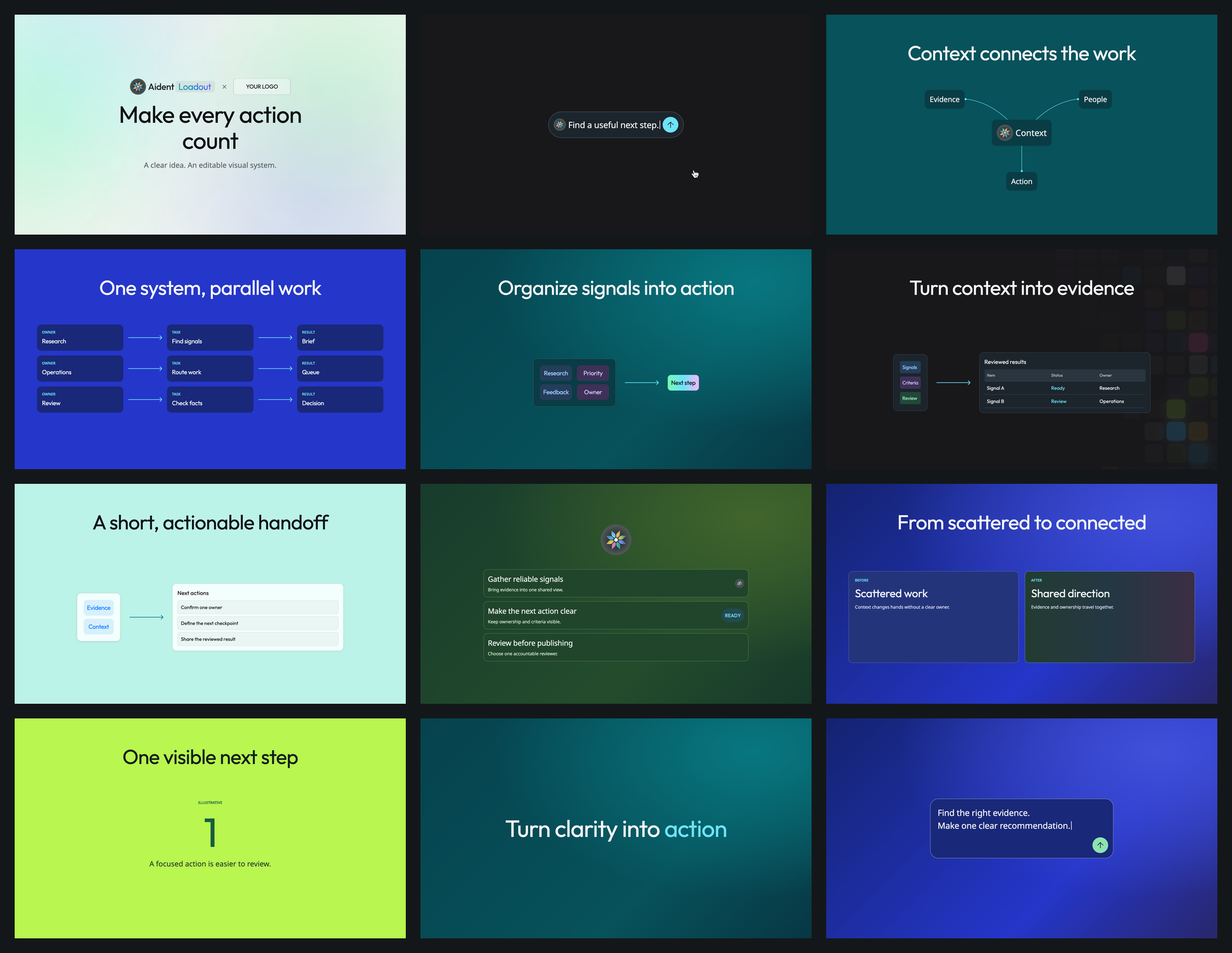
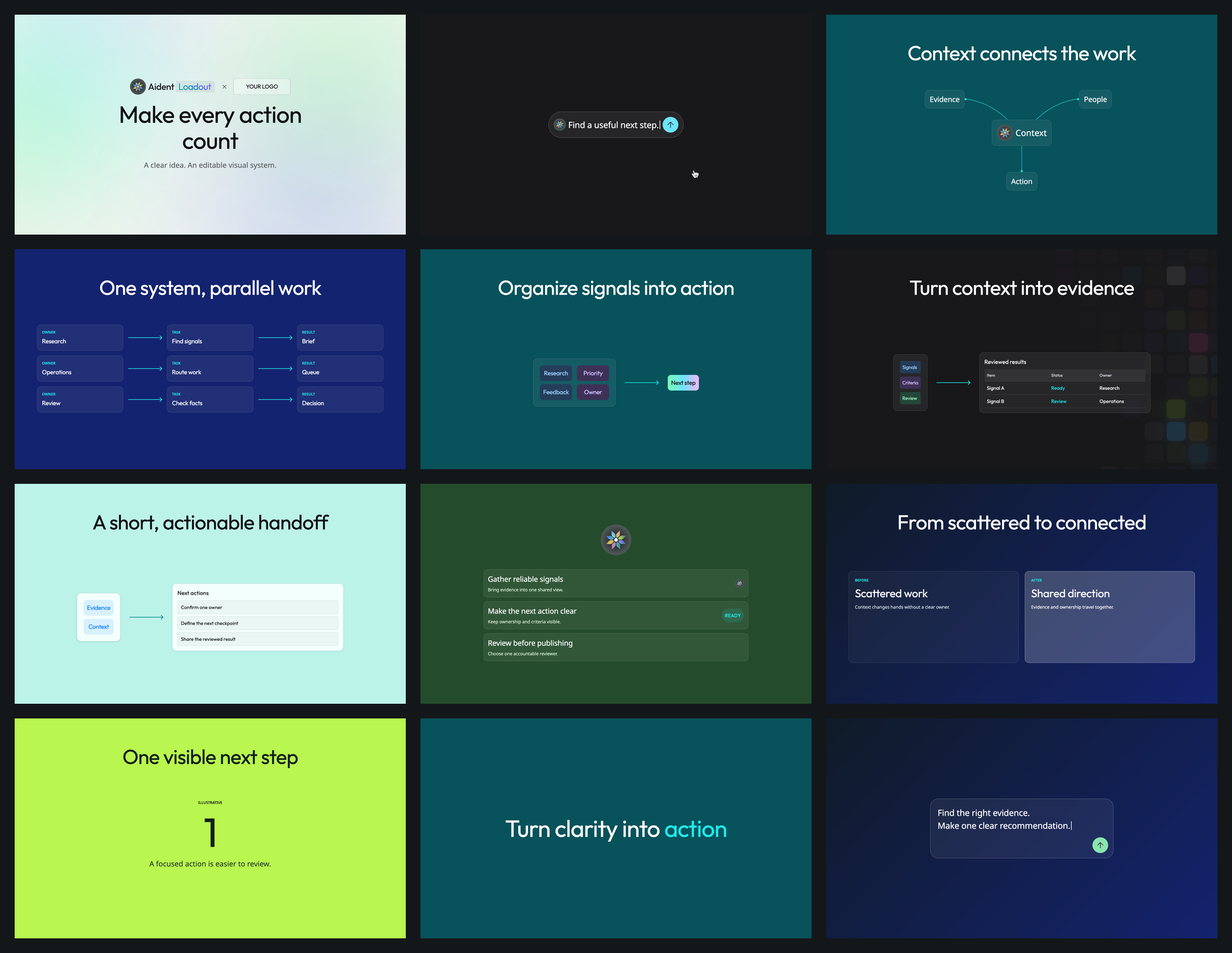
Refine Motion styles and palette/layout recommendations (#1)
* Refine Motion surfaces and palette layout recommendations

* Fix palette edge cases and refresh Motion preview QA

diff --git a/assets/runtime/motion.css b/assets/runtime/motion.css
@@ -13,7 +13,7 @@ img{display:block;max-width:100%}
 p,h1{overflow-wrap:normal}
 .m-heading{position:absolute;top:132px;left:110px;width:1700px;display:flex;flex-direction:column;align-items:center;gap:12px;text-align:center}
 .m-title{font:var(--m-display-weight) var(--m-display-size)/var(--m-display-lh) var(--m-display-font),sans-serif;letter-spacing:var(--m-display-tracking);width:100%}
-.m-kicker{font:var(--m-kicker-weight) var(--m-kicker-size)/var(--m-kicker-lh) var(--m-kicker-font),sans-serif;letter-spacing:var(--m-kicker-tracking);width:max-content;max-width:100%;background:var(--m-kicker);background-clip:text;color:transparent}
+.m-kicker{font:var(--m-kicker-weight) var(--m-kicker-size)/var(--m-kicker-lh) var(--m-kicker-font),sans-serif;letter-spacing:var(--m-kicker-tracking);width:max-content;max-width:100%;background:var(--m-kicker);background-clip:text;color:var(--m-kickerColor,transparent)}
 .m-statement{font:var(--m-statement-weight) var(--m-statement-size)/var(--m-statement-lh) var(--m-statement-font),sans-serif;letter-spacing:var(--m-statement-tracking);text-wrap:balance;width:100%;white-space:pre-line}
 .motion-title .m-heading{top:50%;transform:translateY(-50%)}
 .m-highlight{color:var(--m-accent)}
@@ -25,6 +25,8 @@ p,h1{overflow-wrap:normal}
 .m-card{height:450px;min-width:0;border:1px solid var(--m-cardStroke);background:var(--m-cardFill);border-radius:20px;padding:30px;display:flex;flex-direction:column;align-items:flex-start;gap:10px}
 .m-card.tone-muted{background:var(--m-mutedFill);border-color:var(--m-mutedStroke)}
 .m-card.tone-accent{background:var(--m-accentCard);border-color:var(--m-accentStroke)}
+.motion-slide[data-theme="dark"].motion-comparison .m-card{background:var(--m-comparisonMutedFill);border-color:var(--m-comparisonMutedStroke)}
+.motion-slide[data-theme="dark"].motion-comparison .m-card.tone-accent{background:var(--m-comparisonAccentFill);border-color:var(--m-comparisonAccentStroke);--m-secondary:var(--m-primary)}
 .m-card-icon{height:60px;width:auto;max-width:120px;object-fit:contain}
 .m-brands{--brand-max-width:var(--brand-single-width);--brand-max-height:var(--brand-single-height);position:absolute;inset:0;display:flex;align-items:center;justify-content:center;gap:var(--brand-gap);padding:110px}
 .m-brands[data-brand-count="2"]{--brand-max-width:var(--brand-pair-width);--brand-max-height:var(--brand-pair-height)}
@@ -38,11 +40,11 @@ p,h1{overflow-wrap:normal}
 .m-list-logo{width:auto;height:150px;max-width:650px;object-fit:contain}
 .m-list-track{display:flex;flex-direction:column;gap:20px;padding:3px 0;height:auto;overflow:visible}
 .m-list-row{flex:none;width:100%;min-height:137px;height:auto;display:flex;align-items:center;gap:20px;padding:20px;border:1px solid var(--m-cardStroke);background:var(--m-cardFill);border-radius:20px}
-.m-list-row.is-accent{border-color:var(--m-accent)}
+.m-list-row.is-accent{border-color:var(--m-accentStroke)}
 .m-list-copy{flex:1;min-width:0;display:flex;flex-direction:column;gap:8px}
 .m-list-title{font:var(--m-list-weight) var(--m-list-size)/var(--m-list-lh) var(--m-list-font);letter-spacing:var(--m-list-tracking)}
-.m-badge{width:max-content;max-width:250px;padding:16px;border-radius:999px;background:var(--m-badgeFill);color:var(--m-accent);font:500 24px/1.5 var(--m-item-font);letter-spacing:-.01em;flex:none}
-.m-check{width:60px;height:60px;padding:10px;flex:none;border-radius:999px;background:rgba(69,227,82,.12)}
+.m-badge{width:max-content;max-width:250px;padding:16px;border-radius:999px;background:var(--m-listAccentFill,var(--m-badgeFill));color:var(--m-listAccent,var(--m-accent));font:500 24px/1.5 var(--m-item-font);letter-spacing:-.01em;flex:none}
+.m-check{width:60px;height:60px;padding:10px;flex:none;border-radius:999px;background:var(--m-listAccentFill,rgba(69,227,82,.12))}
 .m-check img{width:40px;height:40px}
 .m-list-item-image{max-width:100px;width:auto;max-height:60px;height:auto}
 .m-input-wrap{position:absolute;inset:0;display:flex;align-items:center;justify-content:center}
@@ -169,7 +171,7 @@ body.capture #motion-controls{display:none}
 .m-result-list-row{padding:14px 16px;border:1px solid var(--m-panelStroke);border-radius:12px;background:var(--m-mutedFill)}
 /* Layout shells own placement; inner surfaces are safe independent reveal targets. */
 .m-flow-node,.m-hub-center,.m-satellite{padding:0;background:none;box-shadow:none}
-.m-node-visual{display:flex;align-items:inherit;justify-content:inherit;gap:inherit;padding:24px;border-radius:20px;background:var(--m-surface);box-shadow:0 1px 10px rgba(0,0,0,.04);width:100%;height:100%}
+.m-node-visual{display:flex;align-items:inherit;justify-content:inherit;gap:inherit;padding:24px;border-radius:20px;background:var(--m-surface);box-shadow:inset 0 0 0 1px var(--m-panelStroke),0 1px 10px rgba(0,0,0,.04);width:100%;height:100%}
 .m-flow-node>.m-node-visual{flex-direction:column;align-items:flex-start}
 .m-workflow-rows{position:absolute;left:110px;top:var(--workflow-rows-top);width:1700px;display:flex;flex-direction:column;gap:var(--workflow-row-gap)}
 .m-flow-row{position:relative;left:auto;top:auto;translate:none;width:100%}

diff --git a/references/motion/themes-and-combinations.md b/references/motion/themes-and-combinations.md
@@ -8,10 +8,10 @@ Set `meta.theme: "light" | "dark"` for the deck default; `slide.theme` overrides
 
 | Role | Light | Dark |
 |---|---|---|
-| Primary text | `#111114` | `#F3F6F7` |
-| Secondary text | `#5E6263` | `#BDC7CA` |
-| Accent / connectors | `#008089` | `#6DE4F9` |
-| Panel / Input / workflow node | `#FFFFFF` | `#1C242C` |
+| Primary text | `#111114` | `#FFFFFF` |
+| Secondary text | `#5E6263` | `#D9E4ED` |
+| Accent / connectors | `#008089` | `#1EEAEA` |
+| Panel / Input / workflow node | `#FFFFFF` | white at 6% fill / 20% stroke |
 | Neutral tag | gray on translucent light fill | `#D1D9DE` on `#303A43` |
 | Info tag | blue | `#9CCCFF` on `#243D59` |
 | Success tag | green | `#A0EBC0` on `#214838` |
@@ -31,7 +31,13 @@ Exact paints, gradients and Send states live in `assets/tokens/motion.json`, und
 
 Dark backgrounds reuse the packaged Lossless WebP assets; no compiled duplicates. Dark glyphs are mechanically extracted from the existing dark design-system icon assets, retaining paths and colors. Dark arrows/curves/stems retain **every original coordinate and dimension**; only their semantic paint changes. `normalize-motion-icons.mjs --check` verifies both. No CSS filter recoloring of brands.
 
-Theme changes should signal a narrative beat, contrast or focus. They are not compulsory alternating cuts. There is no fixed quota of dark scenes and no template-selection weight. Dense material may use the quiet `content` backdrop in either theme.
+Theme changes should signal a narrative beat, contrast or focus. They are not compulsory alternating cuts. There is no fixed quota. The authoring preference table in [scene planning](scene-planning.md#choose-the-default-style-deliberately) guides defaults without reducing technical layout coverage. Dense material may use the quiet `content` backdrop in either theme.
+
+Dark component surfaces use white paint at 6% fill and 20% stroke; muted fill is 4%. Accent rows/cards keep the same 6% fill and raise the stroke to 40%. Text and the component itself remain opacity1. Comparison is intentionally separate: baseline 4% fill / 20% stroke and target 20% fill / 60% stroke. Do not use opaque white cards on dark backgrounds and do not lower the whole component opacity.
+
+The stronger dark comparison target uses primary white for its body text as well as its heading, retaining readable contrast on the20% white fill over brand teal. Contrast checks composite actual ancestor paints rather than assuming every panel uses the ordinary6% surface. Image/gradient backgrounds still require visual review.
+
+Dark List status badges and checks use the packaged brand cyan `#1EEAEA` with a 12% same-color fill. The dark check SVG is a mechanical recolor of the existing path; its geometry is unchanged. Do not substitute a film-specific green. Bright-lime Light scenes use white at 65% for panels, dark ink at 22% for strokes (40% emphasis), and dark text so cards and rows stay distinct from the field.
 
 ### Brand-color backgrounds / 品牌色背景
 
@@ -41,17 +47,17 @@ Dark is **not synonymous with gray**. Theme controls foreground contrast; palett
 |---|---|---|---|
 | `neutral` (default) | original pale artwork | original ink artwork | Quiet baseline |
 | `teal` | `#BCF3E9` | `#07525B` | Brand-tinted workflow, identity, statement |
-| `cobalt` | `#CDD5FF` | `#2536CA` | Strong capability/contrast beat |
+| `cobalt` | `#CDD5FF` | `#14236F` | Solid deep-blue brand/information beat; one optional deep-blue gradient |
 | `lime` | `#B9F64F` | `#244C2C` | Bright offer/metric or deep green information scene |
 
 The saturated teal/lime/cobalt starting colors are reusable editorial options informed by the reviewed production example, **not mandatory corporate palette claims for every user**. Related lighter/darker component paints are maintained extensions. Choose a palette that suits the user's brand. Do not automatically equate any supplied logo with one preset. For a custom exact palette, a maintainer must add complete Light/Dark tokens and corresponding contrast tests rather than allowing an arbitrary hex to bypass quality checks.
 
 - Non-neutral palettes default to `background: "brand"` (solid color).
-- `background: "brand-gradient"` uses a packaged CSS radial/linear atmosphere treatment. It is an independent editable background layer, not a flattened slide image; no bitmap duplication, CSS filters or animation is injected.
+- `background: "brand-gradient"` remains technically accepted for compatibility. Only Dark `cobalt` has a distinct recommended gradient (`#101B27 → #14236F`); other palettes resolve this field to their solid brand color and should not be selected merely for variety. The removed dark-green multi-color gradient must not return.
 - Existing `content/title/elements` remain explicit background choices. To obtain a visibly brand-colored canvas, use `brand` or `brand-gradient`; an existing neutral background image will otherwise cover the palette's base fill.
 - `brand` / `brand-gradient` require a non-neutral palette. `palette:"neutral"` restores the original neutral behavior even if a deck-level brand palette is set.
 - Panel, Input, card, muted fill, stroke, table header/rule and secondary text follow the selected palette; semantic tag categories retain their readable, consistent theme colors. Bright gradient result tags still use dark text.
-- Deep teal/blue/green use `theme:"dark"` and light text. A bright lime offer uses `theme:"light",palette:"lime"` and dark text. Never force white text onto a bright brand background merely because adjacent shots are Dark.
+- Deep teal/blue/green use `theme:"dark"` and light text. A bright lime offer uses `theme:"light",palette:"lime"` and dark text. Never force white text onto a bright brand background merely because adjacent shots are Dark. Bright lime is preferentially routed to a large centered metric/keyword, not to a list or dense multi-card page; explicit exceptions remain supported.
 
 ```json
 {"meta":{"mode":"motion","title":"Brand-colored scenes","language":"en","theme":"dark","palette":"teal"},
@@ -61,7 +67,7 @@ The saturated teal/lime/cobalt starting colors are reusable editorial options in
  ]}
 ```
 
-The original Light design is still the default for old input. Brand backgrounds are available to **all** registered families, not only cover/title. First-frame, readability and asset-theme rules apply equally.
+The original Light design is still the default for old input. Brand backgrounds are available to **all** registered families, not only cover/title. Availability is not a recommendation to mix them freely: openings/closings prefer Light or a solid brand color, Lists prefer a solid brand color, and lime prefers a large metric/keyword. First-frame, readability and asset-theme rules apply equally.
 
 ### Layout coverage and precedence / 全版式覆盖与优先级
 

diff --git a/references/motion/scene-planning.md b/references/motion/scene-planning.md
@@ -1,6 +1,6 @@
 # Semantic shot planning / 按语义选择镜头
 
-Theme is an explicit editorial option, not a template weight: use Light/Dark to clarify contrast or mark a meaningful beat, never alternate mechanically. Consider a compact brand-title opening rather than separate redundant Logo/title shots; combine parallel workflows in aligned rows when they share columns; show an actual result table/list within synthesis instead of repeating the same outcome on another slide. See [themes-and-combinations.md](themes-and-combinations.md). No combination is compulsory.
+Theme and palette are editorial choices with recommended defaults, not a random rotation or a hard whitelist. Use Light/Dark to clarify contrast or mark a meaningful beat, then follow the style-routing table below. Every registered layout can still use every supported palette when explicitly chosen. Consider a compact brand-title opening rather than separate redundant Logo/title shots; combine parallel workflows in aligned rows when they share columns; show an actual result table/list within synthesis instead of repeating the same outcome on another slide. See [themes-and-combinations.md](themes-and-combinations.md).
 
 Read before drafting a Motion deck. The generator renders explicit `slide.type`; it does not select layouts, assign hidden weights, or infer a storyboard. The authoring Agent must do that work. Start a new explainer/demo from [starter.en.json](../../examples/motion/starter.en.json) or [starter.zh.json](../../examples/motion/starter.zh.json), which includes actual Logo, Input, Joint, synthesis and list scenes. The 20-page examples are a component catalog, not a recommended video sequence. Remove or adapt starter shots that do not match the user's story; do not return to a generic title-and-card minimal deck by habit.
 
@@ -15,6 +15,19 @@ Do not split one brand's symbol and wordmark into `Logo × Logo`. Use a complete
 Aident identity may be its approved standalone graphic or approved complete graphic-plus-text lockup, not extracted text alone. Single/pair Logo shots default to the complete `assets/motion/lockup.svg`; list/input/diagram identities use `assets/motion/mark.svg` where compact branding is appropriate. Do not mistake the legacy text-only wordmark asset for a complete lockup or rebuild brand lettering with ordinary HTML text.
 
 The source artwork defines visual language, not a fixed number of examples. Keep variable tag counts, grouping and Fill/Hug compositions, and variable-node diagram capabilities. Extend counts through measured layout and topology-aware edges, not by copying a screenshot's coordinates or distorting its connectors. Current supported ranges are documented in the layout/schema contracts; they are implementation boundaries, not a ban on future reusable variants.
+
+## Choose the default style deliberately
+
+Select the layout from the information relationship first. Then use these preferences unless the content or supplied brand requires another supported combination. These are tendencies, not slide quotas and not validation errors.
+
+| Shot purpose | Preferred style order | Default caution |
+|---|---|---|
+| Opening or closing identity/statement | Light neutral → solid brand deep teal → solid deep blue | Do not default to lime; keep the first/last frame quiet or clearly branded. |
+| One large number or keyword | Bright lime → Light neutral → solid brand color | Bright lime is primarily for `motion-metric` or a short `motion-title`, with one dominant center focal point. |
+| Ordered long/checked list | Solid brand deep teal → solid deep blue → Light neutral | Do not default lists to lime. Rows use the theme surface recipe; dark tags/checks use brand cyan `#1EEAEA`. |
+| Cards, Input, synthesis, workflow, hub, comparison, image | Light neutral → Dark neutral → solid brand deep teal/deep blue | Prefer sustained readability over color variety. |
+
+Do not alternate palettes merely because multiple tokens exist. In a typical short sequence, let one neutral system carry most information scenes and reserve one saturated beat for emphasis. If an explicit lower-priority combination is useful, keep it and state the reason in `notes.purpose`; do not block generation.
 
 ## Choose the visual relation first
 

diff --git a/SKILL.md b/SKILL.md
@@ -22,7 +22,7 @@ For Motion timing, semantic tag palettes, Input/Send states, independent Logo-pa
 
 For Light/Dark Motion, brand-above-title openings, parallel workflow rows, result tables/lists and safe animation layers, read `references/motion/themes-and-combinations.md`. Set `meta.theme` and optional per-slide `theme`; default remains Light. Reuse components with theme tokens, not scene-specific color patches. Declared image `variants` maps must contain the selected theme. Never invert logos or add unrequested white plaques; the packaged full lockup is light-surface artwork. Parallel workflows support1–3 aligned rows of2–4 nodes; result panels support2–4 columns or short lists. Use optional fields only when they communicate meaning. Node shells own layout; animate named `-visual` children for reveals. Input caret, mouse pointer and Send are distinct. Run `scripts/validate-motion-themes.mjs --browser` and inspect both-language screenshots.
 
-Dark does not mean gray only. `meta.palette` / `slide.palette` select `neutral`, `teal`, `cobalt` or `lime`; non-neutral palettes default to a brand-color solid backdrop, or use `background: "brand-gradient"`. Theme controls contrast independently: deep brand colors use Dark/light text, bright lime uses Light/dark text. Use matching panel paints and theme-safe assets. Palettes are optional editorial choices, not required brand claims or automatic alternating shots. See the brand-color section of `references/motion/themes-and-combinations.md`.
+Dark does not mean gray only. `meta.palette` / `slide.palette` select `neutral`, `teal`, `cobalt` or `lime`; non-neutral palettes default to a solid brand-color backdrop. Theme controls contrast independently: deep brand colors use Dark/light text, bright lime uses Light/dark text. Every registered layout supports every palette, but defaults are intentionally biased: bright lime mainly for a large centered metric/keyword, Lists mainly for a solid brand color, openings/closings mainly Light or solid brand color, and ordinary information scenes mainly calm neutral or solid brand colors. Do not rotate palettes for variety. Explicit lower-priority combinations remain valid when the content justifies them. The only distinct optional brand gradient is the deep-blue `#101B27 → #14236F`; other `brand-gradient` inputs retain compatibility but resolve to their solid palette. See `references/motion/scene-planning.md` and the brand-color section of `references/motion/themes-and-combinations.md`.
 
 Theme and palette are shared capabilities of **every registered Motion layout and variant**, including brand-title, workflow rows and synthesis result panels—not cover-only options. Resolve each field independently: slide override → deck meta default → Light/neutral. Choose the layout for its information structure, then select the background; changing color must not change node counts, alignment, spacing or optional content. `background` is a per-slide field, not a supported `meta` field. All families share its choices; brand backgrounds require a non-neutral palette and theme-suitable logos/images.
 

diff --git a/AGENTS.md b/AGENTS.md
@@ -15,7 +15,7 @@ This repository supports both single-agent and multi-agent deck production. When
 
 ## Motion Slides routing
 
-For `deck.meta.mode: "motion"`, narrative/asset/QA roles use `references/motion/README.md` and its linked layout, content, handoff and quality documents. Plan shots with `references/motion/scene-planning.md` (no hidden weights or cards-first default), confirm default/custom/no-Logo preference, and keep content static for external animation. Preserve centered Motion headings, independent connectors, and off-camera long-list tracks with clipping only at the slide boundary. The lead generates through the same CLI; preflight auto-routes by HTML mode. Assets handoffs may patch `logos`, `hub.image`, `image`, and `items[index].image`. HTML QA checks both static composition and the reachable final list row. Do not assign PPTX/PDF roles or claim a native video-engine project for an HTML-only Motion Slides request.
+For `deck.meta.mode: "motion"`, narrative/asset/QA roles use `references/motion/README.md` and its linked layout, content, handoff and quality documents. Plan shots with `references/motion/scene-planning.md`: semantic layout selection comes first, then the documented non-blocking palette preferences; there is no cards-first default or random palette rotation. Confirm default/custom/no-Logo preference, and keep content static for external animation. Preserve centered Motion headings, independent connectors, and off-camera long-list tracks with clipping only at the slide boundary. The lead generates through the same CLI; preflight auto-routes by HTML mode. Assets handoffs may patch `logos`, `hub.image`, `image`, and `items[index].image`. HTML QA checks both static composition and the reachable final list row. Do not assign PPTX/PDF roles or claim a native video-engine project for an HTML-only Motion Slides request.
 
 Start new Motion narratives from `examples/motion/starter.en.json` or `starter.zh.json`, not the business-deck example or the exhaustive template catalog. Adapt the Logo, Input, connected workflow, synthesis and list shots to the actual message; no template quota applies. For synthesis use `references/motion/synthesis-composition.md`: peer labels default to equal-width Fill, shared typography and centered text; left alignment, semantic rows and Hug keyword groups are explicit alternatives. Never assign font sizes by column index or require all size tokens on one slide. Inspect screenshots and review warnings even when geometry checks pass.
 

diff --git a/README.md b/README.md
@@ -18,9 +18,11 @@ Bring your own brand: replace the cover and upper-left slide mark with your own 
 
 新增深浅主题与组合镜头：同一模板可选 Light/Dark；支持 Logo＋标题、1–3 行并行流程（每行2–4节点）、标签到表格/清单结果、独立输入光标和动画层。中英文均支持，所有文字、Logo 和图片都可替换；不强制每页用完所有组件。完整规则见 [主题与组合](./references/motion/themes-and-combinations.md)。
 
-背景不只有深灰：可选中性、青绿、钴蓝、黄绿四套配色，分别支持深浅模式，以及品牌色实底／氛围渐变。Backgrounds go beyond gray: neutral, teal, cobalt and lime palettes support Light/Dark, brand-color solid fills and atmosphere gradients.
+背景提供中性、青绿、深蓝、黄绿四套配色及深浅模式；品牌色优先纯色，深蓝另有可选渐变。Backgrounds offer neutral, teal, deep blue and lime palettes in Light/Dark; brand fills default to solid colors, with an optional deep-blue gradient.
 
 所有 11 类 Motion 布局及其组合变体均支持；主题与配色可整套设置、逐页覆盖，底色变化不改变排版。All 11 Motion layout families and their variants support deck-level themes/palettes with per-slide overrides, without changing layout geometry.
+
+默认搭配有明确倾向：亮绿优先大数字／关键词，List 优先品牌纯色，开场与结尾优先浅色或品牌纯色；其他组合仍可显式选用。Recommended pairings favor lime for large metrics/keywords, solid brand colors for Lists, and Light or solid brand colors for openings/closings. Other combinations remain supported. See [style routing / 配色与版式倾向](./references/motion/scene-planning.md#choose-the-default-style-deliberately).
 
 Light/Dark themes and combined shots: brand + title,1–3 parallel workflow rows with2–4 nodes each, tags to editable table/list results, separate input caret and animation layers. Both languages support fully replaceable copy, logos and images. Components are optional, not a checklist. [Specification](./references/motion/themes-and-combinations.md).
 

diff --git a/README.en.md b/README.en.md
@@ -14,9 +14,11 @@ Bring your own brand: replace the cover and upper-left slide mark with your own 
 
 Light/Dark themes and combined shots: brand + title,1–3 parallel workflow rows with2–4 nodes each, tags to editable table/list results, separate input caret and animation layers. Both languages support fully replaceable copy, logos and images. Components are optional, not a checklist. [Specification](./references/motion/themes-and-combinations.md).
 
-Backgrounds go beyond gray: neutral, teal, cobalt and lime palettes support Light/Dark, brand-color solid fills and atmosphere gradients. 背景不只有深灰：中性、青绿、钴蓝、黄绿四套配色支持深浅模式，以及品牌色实底／氛围渐变。
+Backgrounds offer neutral, teal, deep blue and lime palettes in Light/Dark; brand fills default to solid colors, with an optional deep-blue gradient. 背景提供中性、青绿、深蓝、黄绿四套配色及深浅模式；品牌色优先纯色，深蓝另有可选渐变。
 
 All 11 Motion layout families and their variants support deck-level themes/palettes with per-slide overrides, without changing layout geometry. 所有 11 类 Motion 布局及组合变体均支持；主题与配色可整套设置、逐页覆盖，不改变排版。
+
+Recommended pairings favor lime for large metrics/keywords, solid brand colors for Lists, and Light or solid brand colors for openings/closings. Other combinations remain supported. 默认搭配有明确倾向：亮绿优先大数字／关键词，List 优先品牌纯色，开场与结尾优先浅色或品牌纯色；其他组合仍可显式选用。See [style routing / 配色与版式倾向](./references/motion/scene-planning.md#choose-the-default-style-deliberately).
 
 新增深浅主题与组合镜头：Logo＋标题、并行多行流程、标签到表格/清单结果、独立输入光标和动画层。中英文均支持，内容和品牌资源全部可替换；不强制使用所有组件。参阅[完整规则](./references/motion/themes-and-combinations.md)。
 

diff --git a/references/motion/content.md b/references/motion/content.md
@@ -1,6 +1,6 @@
 # Motion content contract
 
-`meta.palette` / `slide.palette`: `neutral | teal | cobalt | lime`. Theme controls contrast independently; a non-neutral palette defaults to `background:"brand"` or can use `"brand-gradient"`. The original `content/title/elements` image backgrounds remain available. See the brand-color section in [themes-and-combinations.md](themes-and-combinations.md).
+`meta.palette` / `slide.palette`: `neutral | teal | cobalt | lime`. Theme controls contrast independently; a non-neutral palette defaults to `background:"brand"` or can explicitly use `"brand-gradient"`. All palettes remain supported across all layouts, but authoring follows the preference routing in [scene planning](scene-planning.md#choose-the-default-style-deliberately): lime primarily for a large metric/keyword, Lists primarily on solid brand color, and openings/closings primarily Light or solid brand color. The original `content/title/elements` image backgrounds remain available. See [themes and combinations](themes-and-combinations.md).
 
 Theme and composition extensions: `meta.theme` / `slide.theme` select Light or Dark. Images may use strict `variants:{light,dark}` path maps. `motion-title` supports `brand-title` with1–2 replaceable logos above the statement; workflow `rows` supports1–3 matched rows ×2–4 nodes; synthesis `result` supports editable table/list variants. Optional `showCaret` is separate from `showCursor`. Read [themes-and-combinations.md](themes-and-combinations.md) for complete fields, defaults, budgets and examples.
 

diff --git a/references/motion/README.md b/references/motion/README.md
@@ -37,7 +37,7 @@ For a new explainer/demo use the bilingual starter, which includes Logo, Input, 
 
 ## Mode-specific rules
 
-Every registered Motion layout and variant supports the shared theme/palette/background system—not just opening shots. Set `meta.theme` / `meta.palette` for deck defaults and override either independently on a slide. `background` is slide-only. Read [coverage and precedence](themes-and-combinations.md#layout-coverage-and-precedence--全版式覆盖与优先级); changing colors preserves layout and still requires suitable logo assets.
+Every registered Motion layout and variant supports the shared theme/palette/background system—not just opening shots. Set `meta.theme` / `meta.palette` for deck defaults and override either independently on a slide. `background` is slide-only. Support does not mean random mixing: read the [default style routing](scene-planning.md#choose-the-default-style-deliberately) and [coverage and precedence](themes-and-combinations.md#layout-coverage-and-precedence--全版式覆盖与优先级). Changing colors preserves layout and still requires suitable logo assets.
 
 1. Canvas is 1920×1080. The foreground safe width is 1700px, x=110. Responsive preview scales the entire canvas uniformly and centers it.
 2. Centered inner headings are intentional in Motion Slides. The business-presentation rule “only cover titles are centered” does not apply to this mode.

diff --git a/references/motion/layouts.md b/references/motion/layouts.md
@@ -65,7 +65,7 @@ Read [editable-components.md](editable-components.md) for Workflow title budgets
 - Base canvas: `#F2F4F0`; primary text `#111114`; secondary `#5E6263`; accent `#008089`.
 - Standard point/card: cyan `rgba(30,234,234,.06)`, border `rgba(0,128,137,.30)`.
 - Muted comparison card: `rgba(17,17,20,.04)`, border `rgba(17,17,20,.20)`.
-- Accent comparison card: green `#77FAB4` → cyan `#6DE4F9` at 49.038% → pink `#F3B6FF`, **20% stop alpha**, border accent at60%. This is not the presentation Callout's 16% fill.
+- Dark comparison cards distinguish states primarily by white-paint alpha: baseline 4% fill /20% stroke; target20% fill /60% stroke. Text and whole-card opacity stay at1. The packaged pastel gradient remains an explicit optional emphasis treatment, not the default dark comparison paint. This is separate from the presentation Callout's16% fill.
 - Output emphasis tag: same color direction at full fill; text stays primary.
 - Badge: cyan at20%; primary accent text; pill radius; padding16.
 - Semantic tag fills: neutral / info / success / warning / purple / accent from `motion.json`. Apply alpha only to fills; never fade an entire component to simulate paint opacity.
